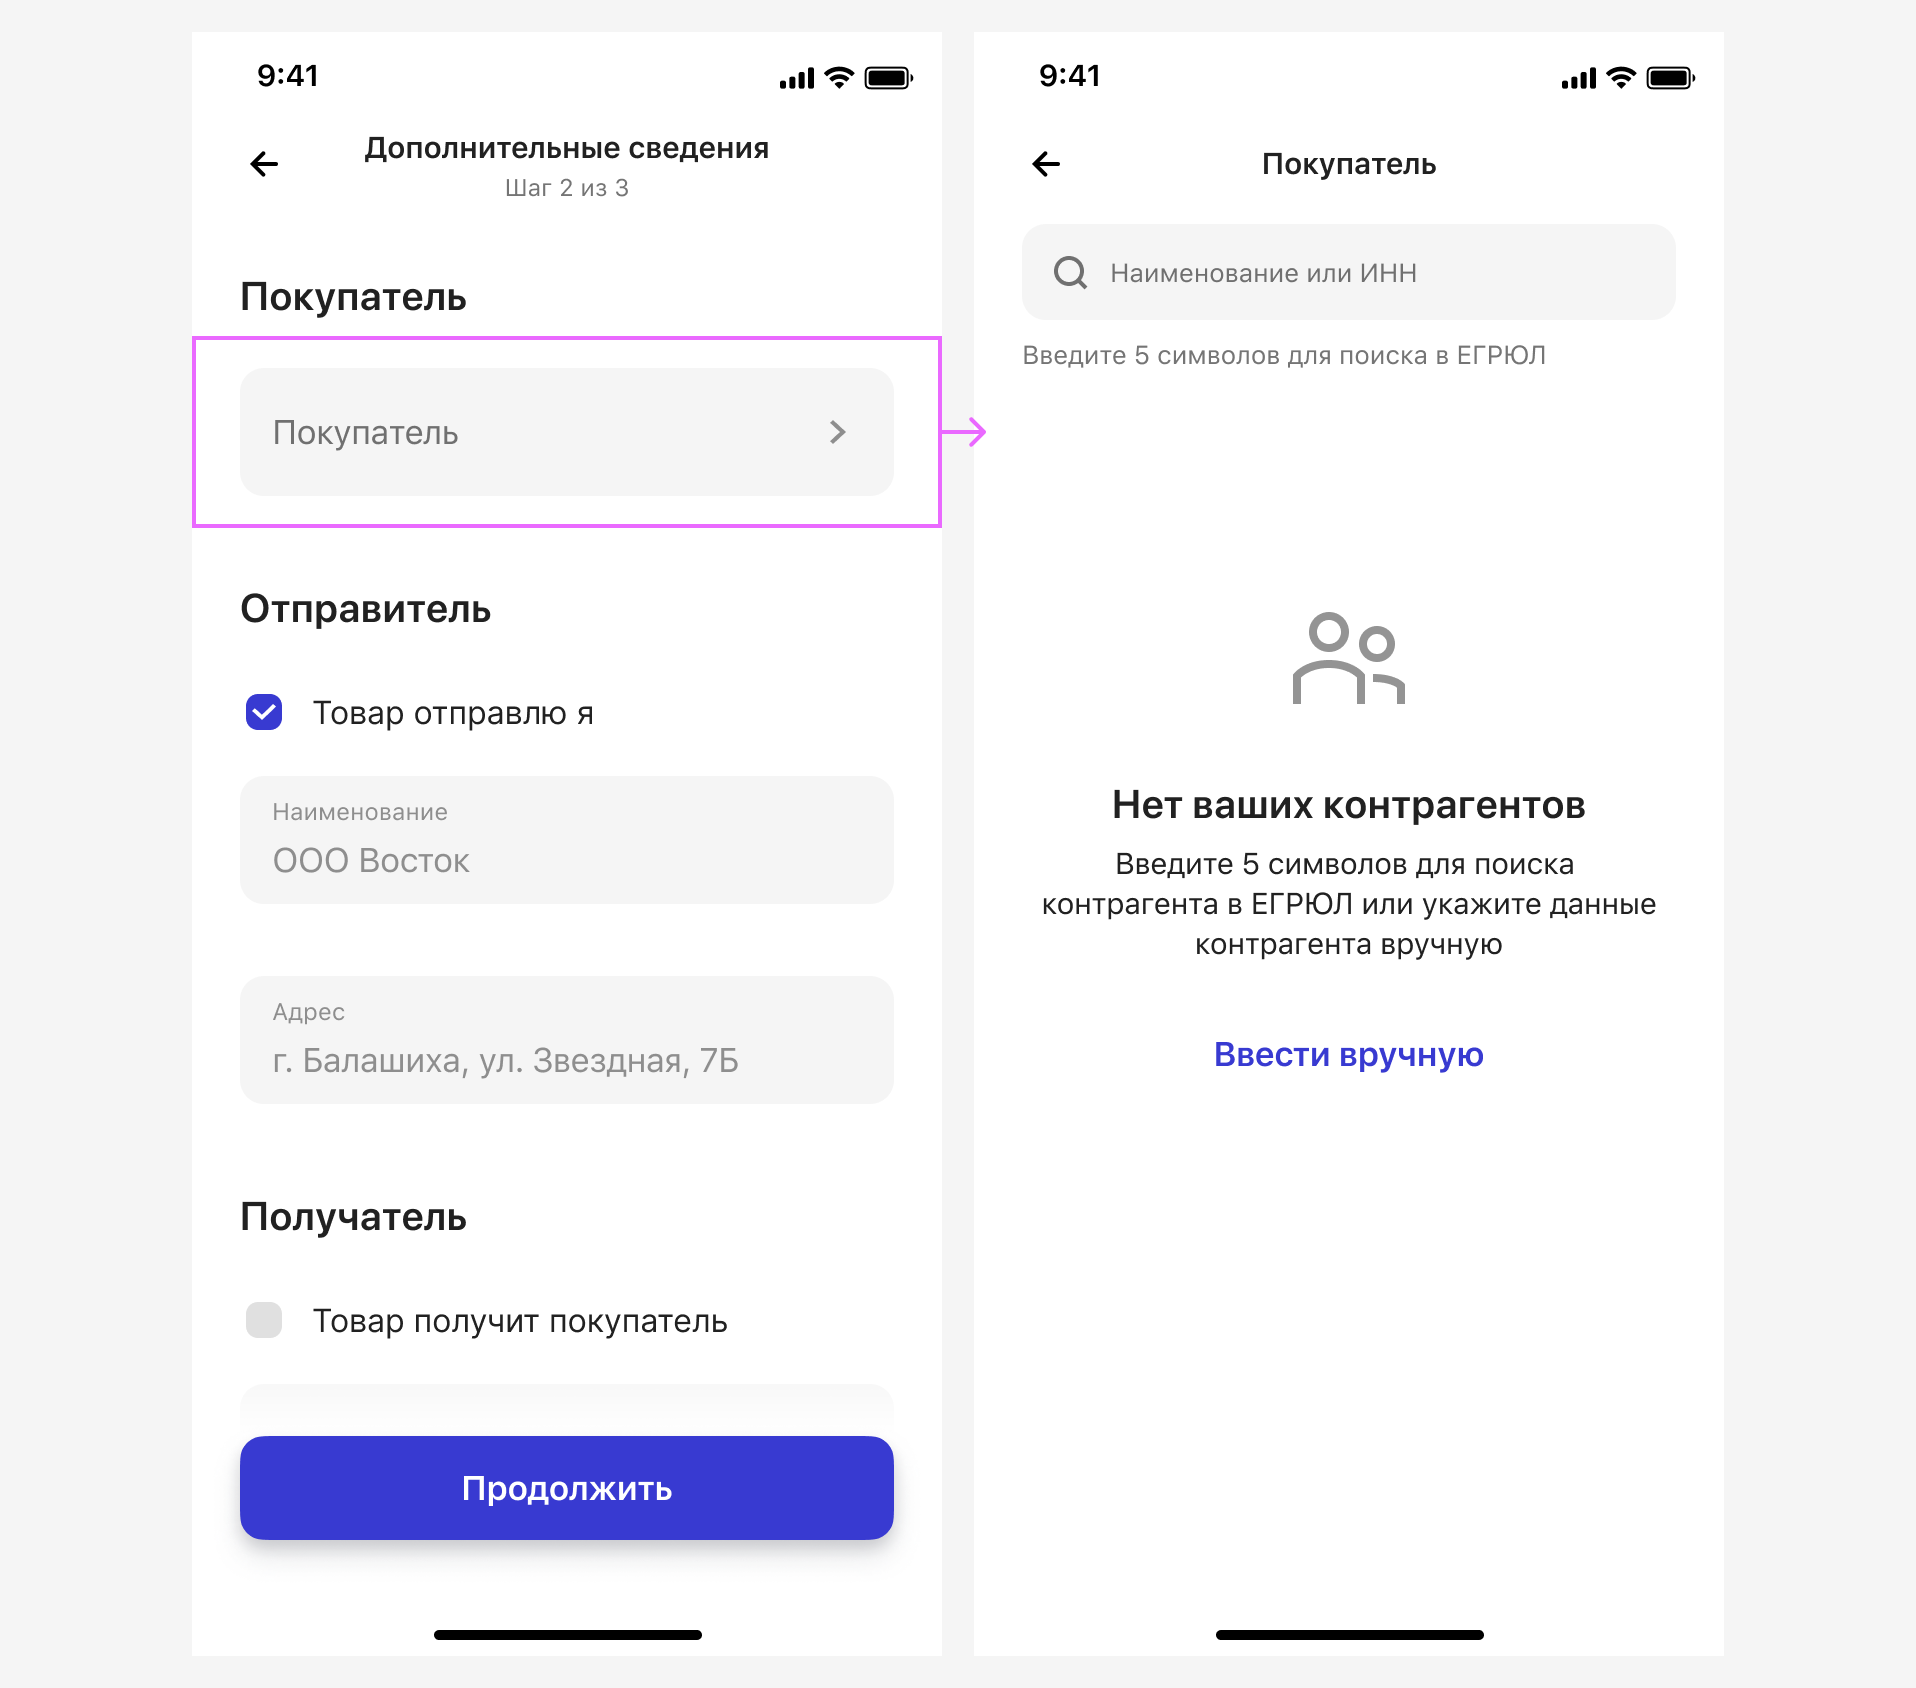
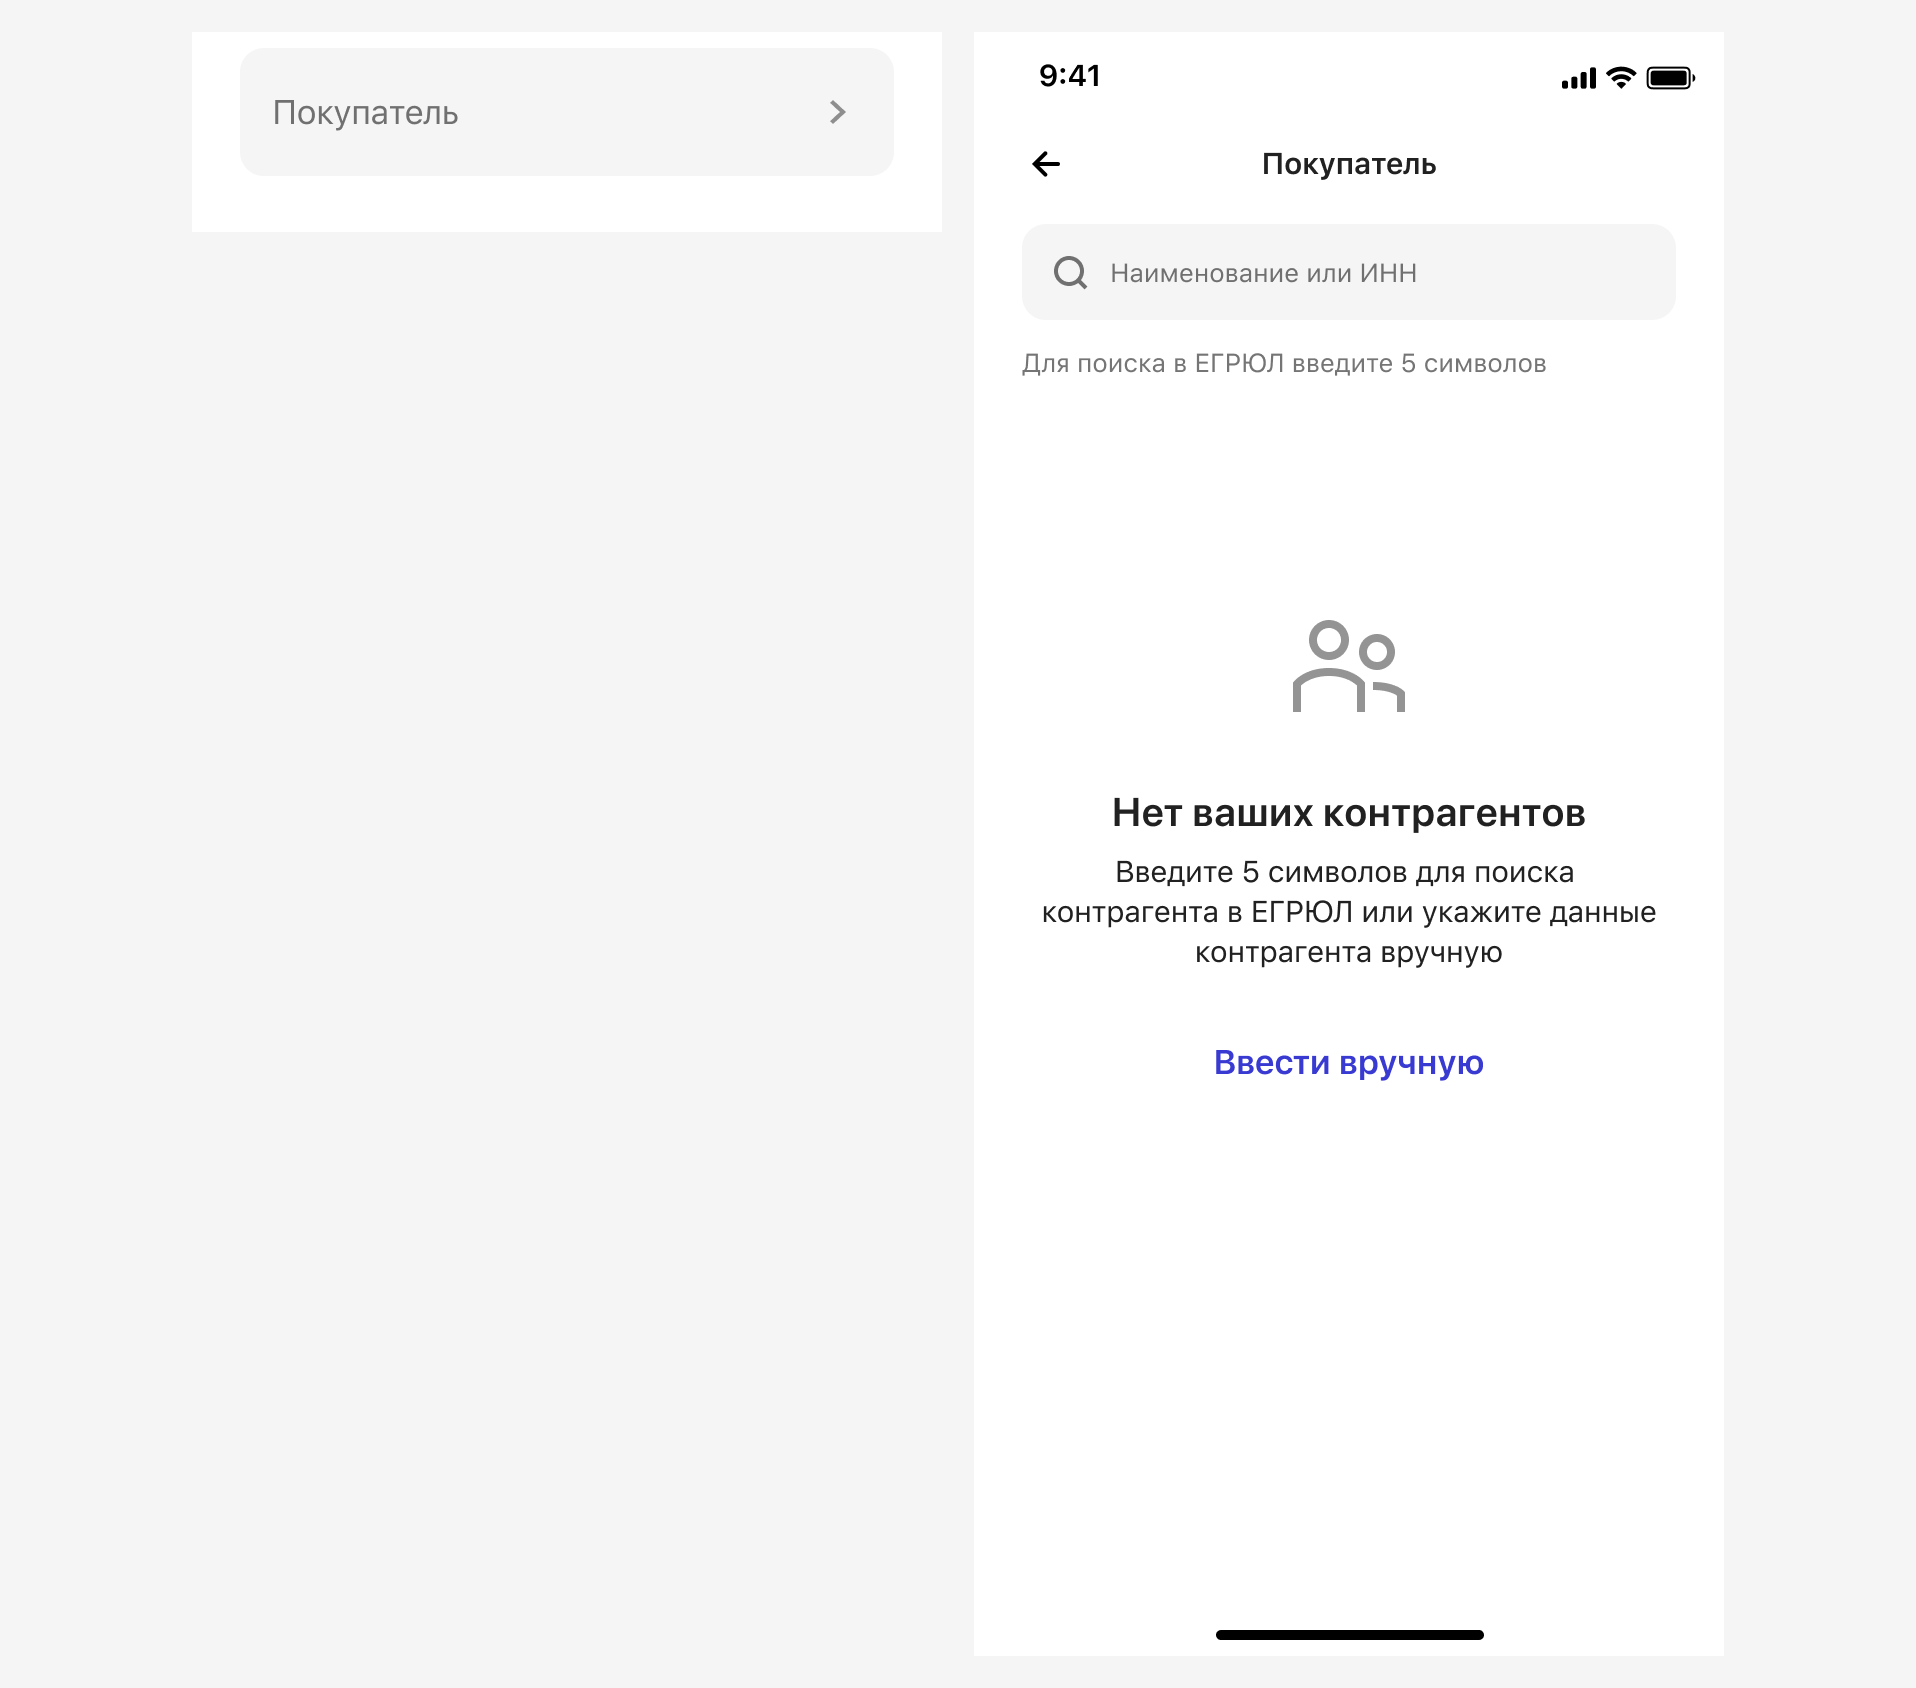
Правки в справочнике организаций

diff --git a/docs/patterns/classified/organization-directory/index.md b/docs/patterns/classified/organization-directory/index.md
@@ -1,65 +1,60 @@
 # Организации
-[Фигма](https://www.figma.com/design/vcJnk1pjqywou7To3O52Rq/%D0%A1%D0%BF%D1%80%D0%B0%D0%B2%D0%BE%D1%87%D0%BD%D0%B8%D0%BA%D0%B8?node-id=1181-10598&t=uP4YBhjKwKHJyovE-1) 
+
+[Фигма](https://www.figma.com/design/vcJnk1pjqywou7To3O52Rq/%D0%A1%D0%BF%D1%80%D0%B0%D0%B2%D0%BE%D1%87%D0%BD%D0%B8%D0%BA%D0%B8?node-id=1181-10598&t=uP4YBhjKwKHJyovE-1)
 
 ## Как использовать
 
 Справочник «Организации» состоит из двух справочников:
+
 1. ЕГРЮЛ/ЕГРИП — это государственный справочник юрлиц и ИП, в нем нет физлиц.
-2. «Контрагенты» — это справочник ПСБ. В нем хранятся данные контрагентов, с которыми пользователь  уже взаимодействовал или которых указал вручную сам. Здесь могут быть данные физлиц.
+2. «Мои контрагенты» — это справочник ПСБ. В нем хранятся данные контрагентов, с которыми пользователь  уже взаимодействовал или которых указал вручную сам. Здесь могут быть данные физлиц.
 
-Справочник вызывается согласно [Общим принципам справочников](/patterns/classified/).
-
-Справочник помогает автоматически заполнять данные в форме заявки:
+Справочник вызывается согласно [общим принципам справочников](/patterns/classified/). При нажатии на контрагента из справочника, данные автоматически подтягиваются в форму заявки в виде карточки:
 
 ![Автоматическое заполнение](./how-to-use-automatically.png)
 
-Иконка карандашика возвращает пользователя в справочник.
-
-Если форма заявки предполагает, что пользователь должен ввести только юридическое лицо, то физлица и ИП в списке Мои контрагенты не выводим.
-
-Если в заявке надо ввести данные юрлица, физлица или ИП, то при ручном заполнении поля у контрагентов разные:
-
-![Ручной ввод](./how-to-use-founder.png)
-
-Кейс, когда требуется указать только юридическое лицо:
-
-![Юридическое лицо](./how-to-use-organization.png)
-
-Если пользователь никогда не указывал контрагента, то справочник покажет [пустое состояние](/patterns/empty-state/):
-
-![Пустое состояние справочника](./how-to-use-empty.png)
+Если форма заявки предполагает, что пользователь должен ввести только юридическое лицо, то физлица и ИП в списке «Мои контрагенты» не выводим.
 
 ## Поиск
 
-В поиске указывается наименование или ИНН. При вводе символов появляется список подсказок (совпадения) из справочника Мои контрагенты:
+В поиске указывается наименование или ИНН. При вводе символов появляется список подсказок (совпадений) из справочника «Мои контрагенты»:
 
 ![Мои контрагенты](./list-my.png)
 
-После ввода 5 символа появляются совпадения из справочника ЕГРЮЛ/ЕГРИП и кнопка Введите вручную:
+В справочнике мы намерено не ставим двоеточие у ИНН, КПП, р/с. Это помогает избавиться от визуального шума.
 
-![Ввод 5 символа](./list-EGRUL.png)
-
-В справочнике мы намерено не ставим кавычки у наименований организаций и двоеточие у ИНН, КПП, р/с. Это помогает избавиться от визуального шума.
-
-У наименования организаций и предпринимателей для отображения организационно-правовой формы используются сокращения (ООО, ОАО, ИП):
+В наименованиях организаций и ИП используются стандартные сокращения организационно-правовых форм:
 
 ![Сокращения](./good-bad.png)
 
-Если организации нет в списке, то пользователь может ввести данные вручную:
+После ввода 5 символа появляются совпадения из справочника ЕГРЮЛ/ЕГРИП и кнопка «Введите вручную»:
+
+![Ввод 5 символа](./list-EGRUL.png)
+
+Если организации нет в списке, то пользователь может ввести данные вручную.
+
+Если в заявке нужно ввести данные юридического лица, физического лица или индивидуального предпринимателя, то при ручном заполнении поля у контрагентов различаются. В поля Наименование организации или ИНН автоматически подтягивается то, что пользователь ввел в справочнике:
 
 ![Организации нет в списке](./list-manually.png)
 
-## Организация не найдена
+Если в заявке надо указать только организацию, то в форме не будет разделения на юрлицо и физлицо/ИП. При нажатии на карандаш пользователь вернется в справочник:
 
-Если в подсказках нет нужного варианта, появляется [пустое состояние](/patterns/empty-state/):
+![Юридическое лицо](./how-to-use-organization.png)
+
+## Пустые состояния
+
+Если в справочнике «Мои контрагенты» нет контрагентов, то справочник покажет [пустое состояние](/patterns/empty-state/):
+
+![Пустое состояние справочника](./how-to-use-empty.png)
+
+Если при поиске организации в ЕГРЮЛ нет совпадений, справочник сообщает об этом. Если совпадений нет ни среди «моих контрагентов», ни в ЕГРЮЛ, то отображается пустое состояние:
 
 ![Организация не найдена](./not-found.png)
 
 ## Валидация
 
-Ошибки значения данных контрагента быть не может.
+В поле поиска наименования или ИНН можно ввести любые символы — система не проверяет их на корректность.
 
-Может появиться ошибка запроса с бэка. Мы предлагаем пользователю ввести данные вручную:
+Могут возникать ошибки запроса с бэка при загрузке данных из справочников:
 
 ![Валидация](./validation.png)
-
